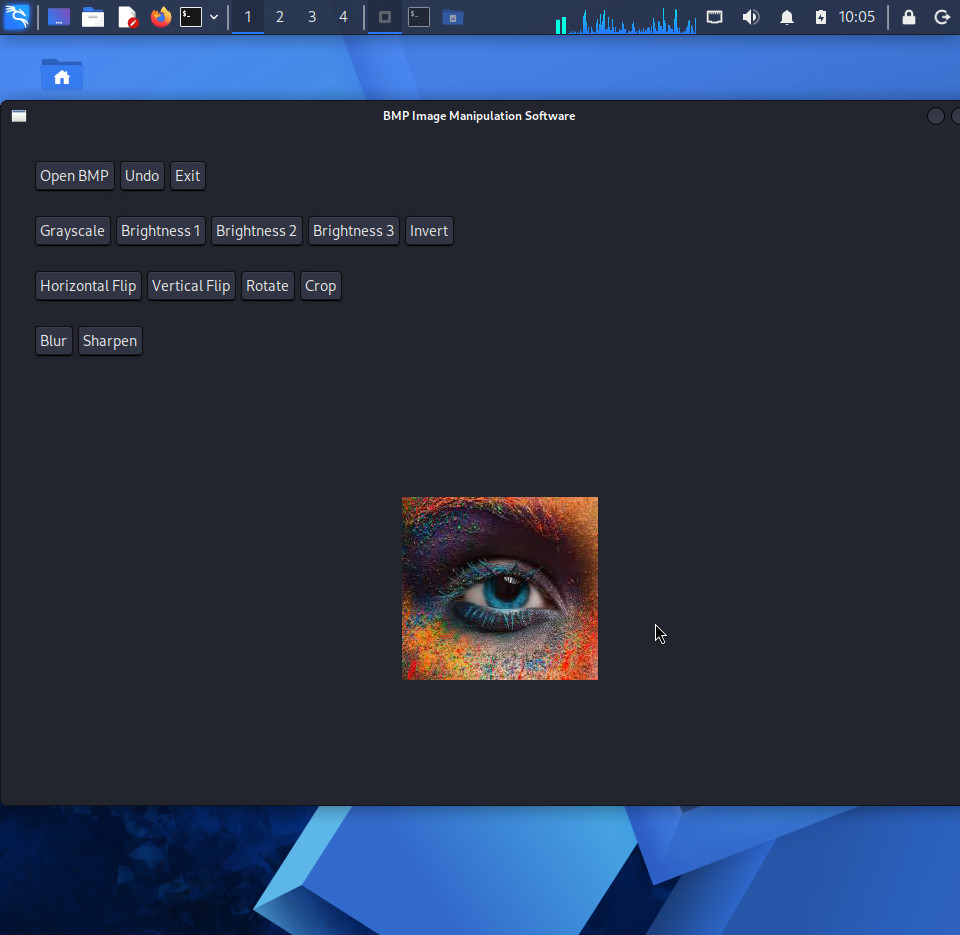
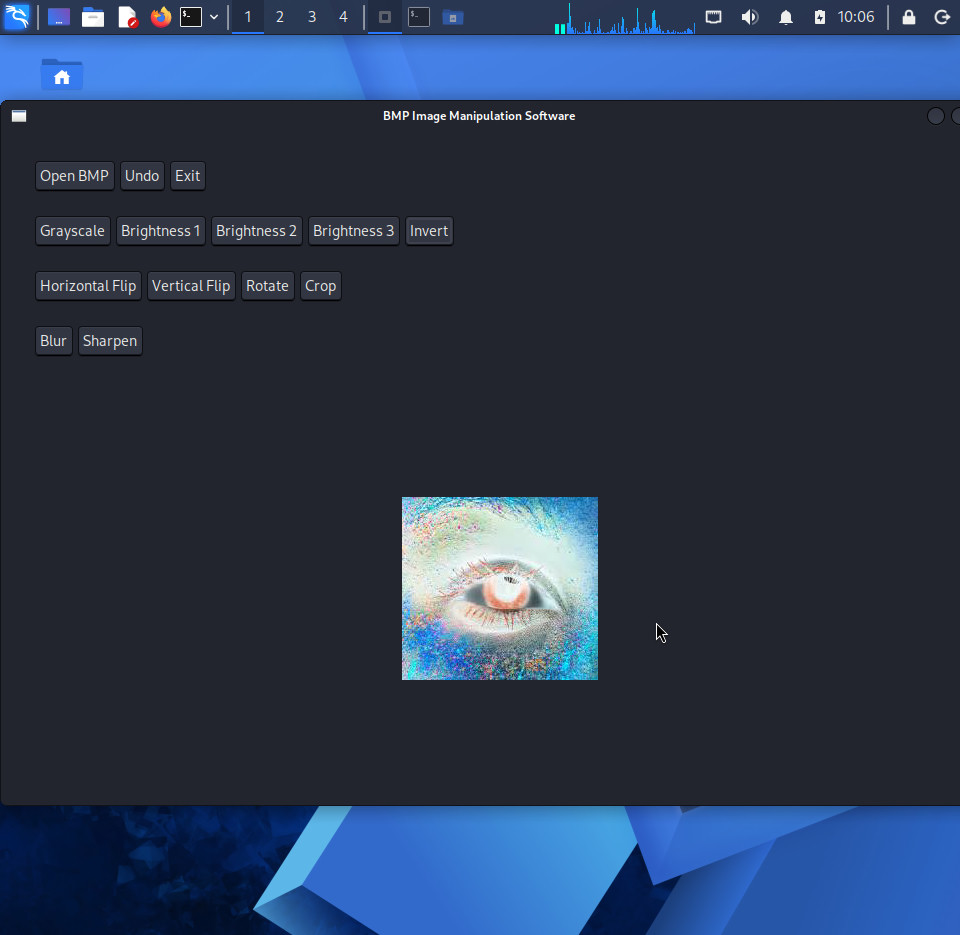
Correct screenshot names

Changed region(s): [[0.4062, 0.5273, 0.625, 0.7444], [0.5625, 0.0, 0.75, 0.062], [0.875, 0.0, 0.9062, 0.031]]

diff --git a/README.md b/README.md
@@ -45,11 +45,11 @@ cd Photoeditor\main
 ```
 ## Screenshots
 
+### Opening Panel
+![Opening Panel](screenshots/opening-panel.jpg)
+
 ### Opening Image
 ![Opening Image](screenshots/opening-image.jpg)
 
 ### Inverted Image
 ![Inverted Image](screenshots/inverted-image.jpg)
-
-### Third Screenshot
-![Third Screenshot](screenshots/third-screenshot.jpg)
